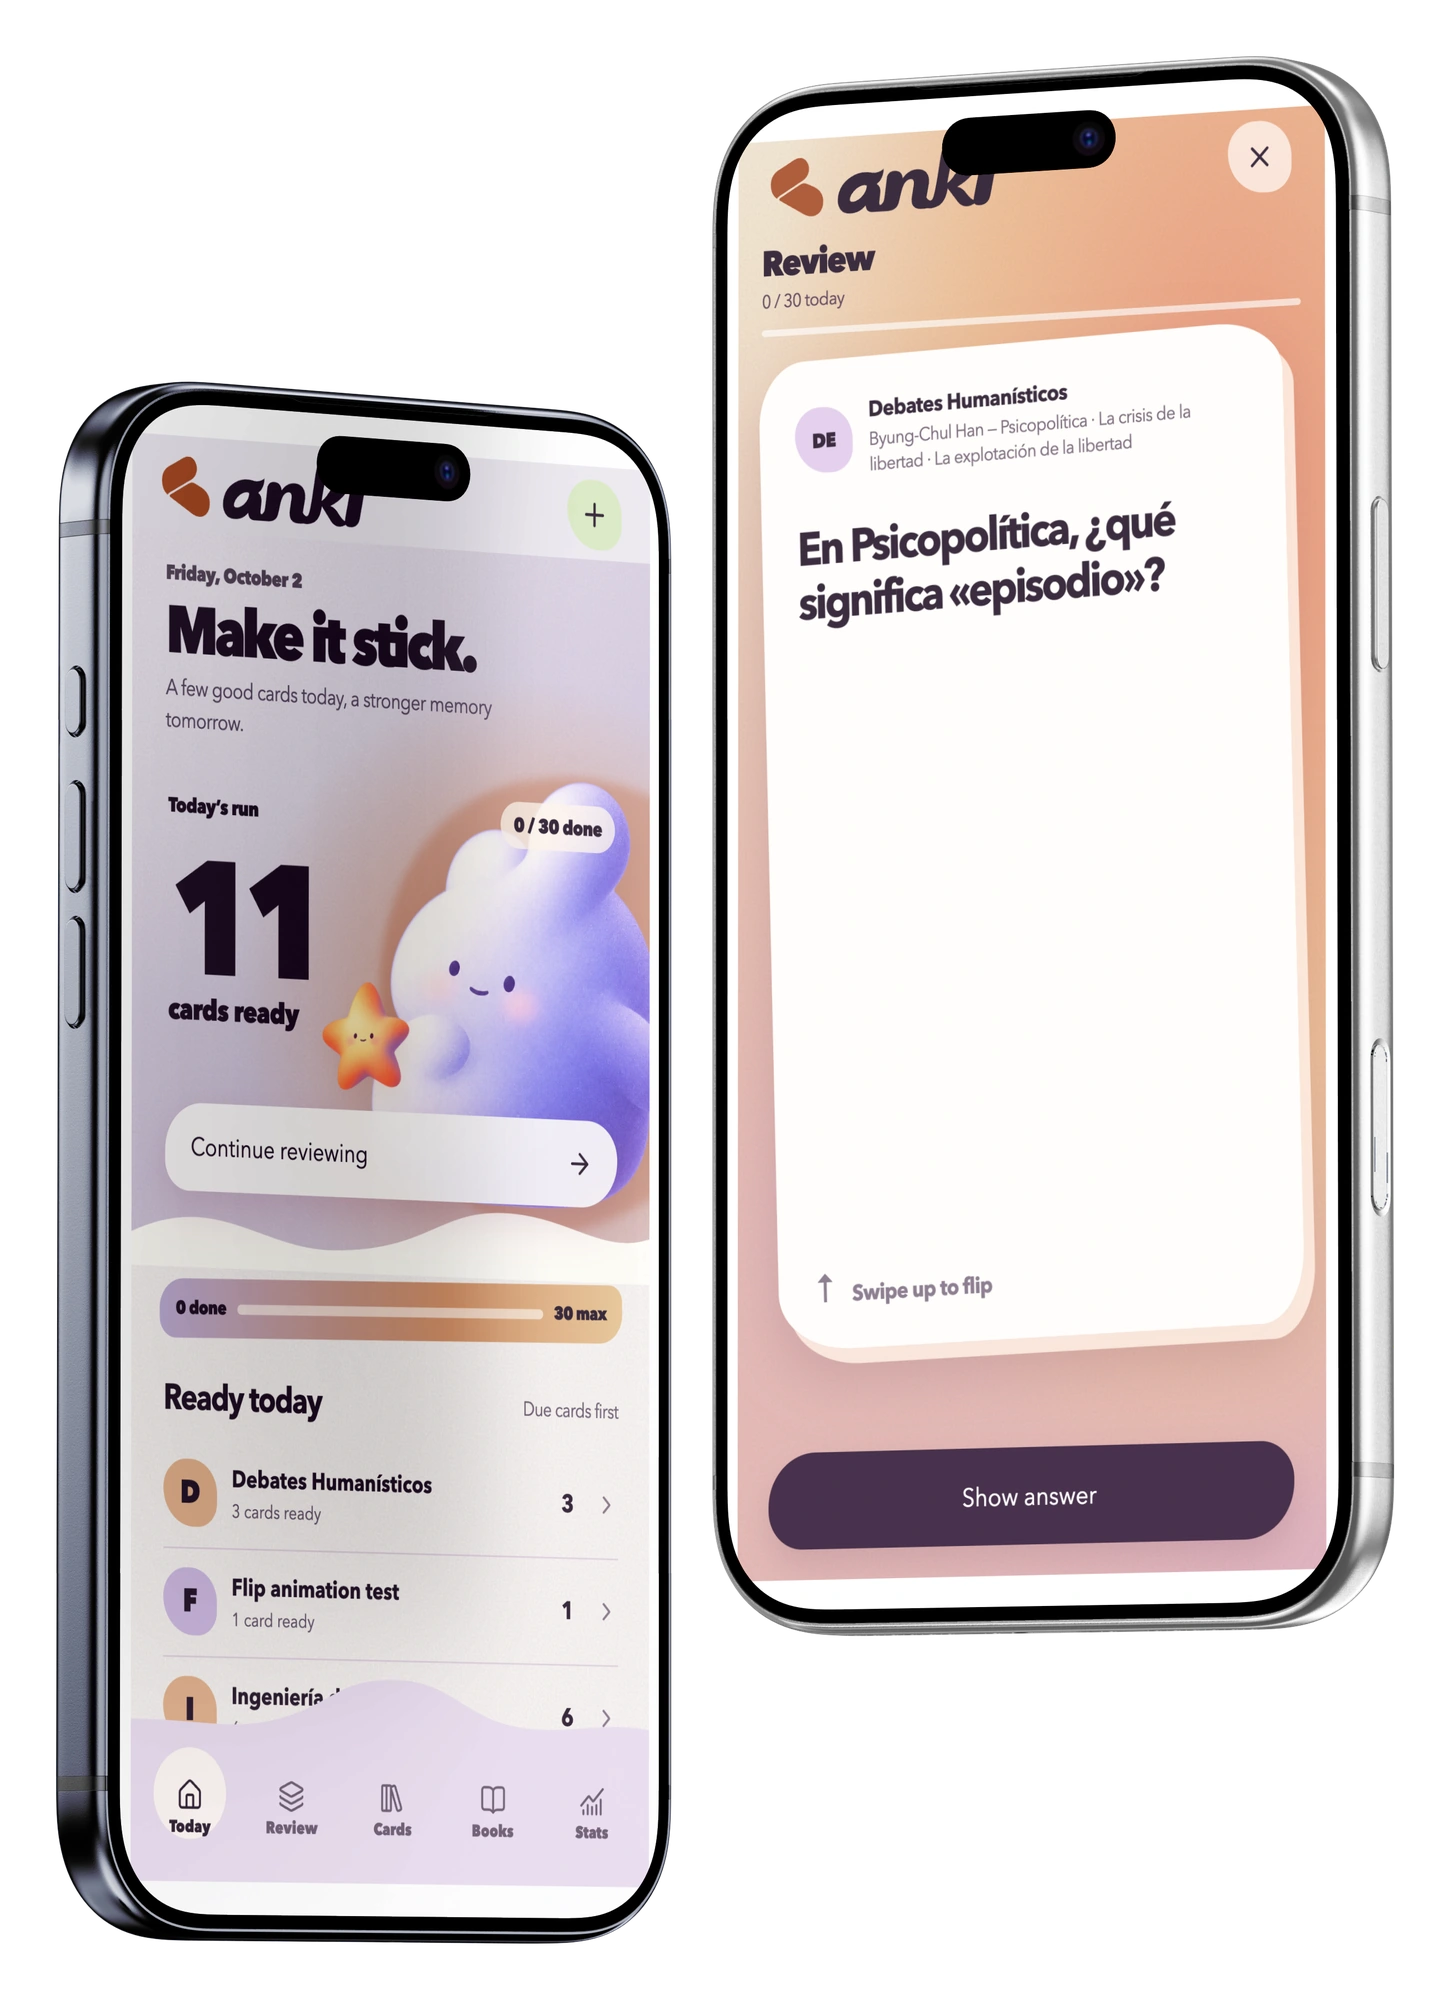
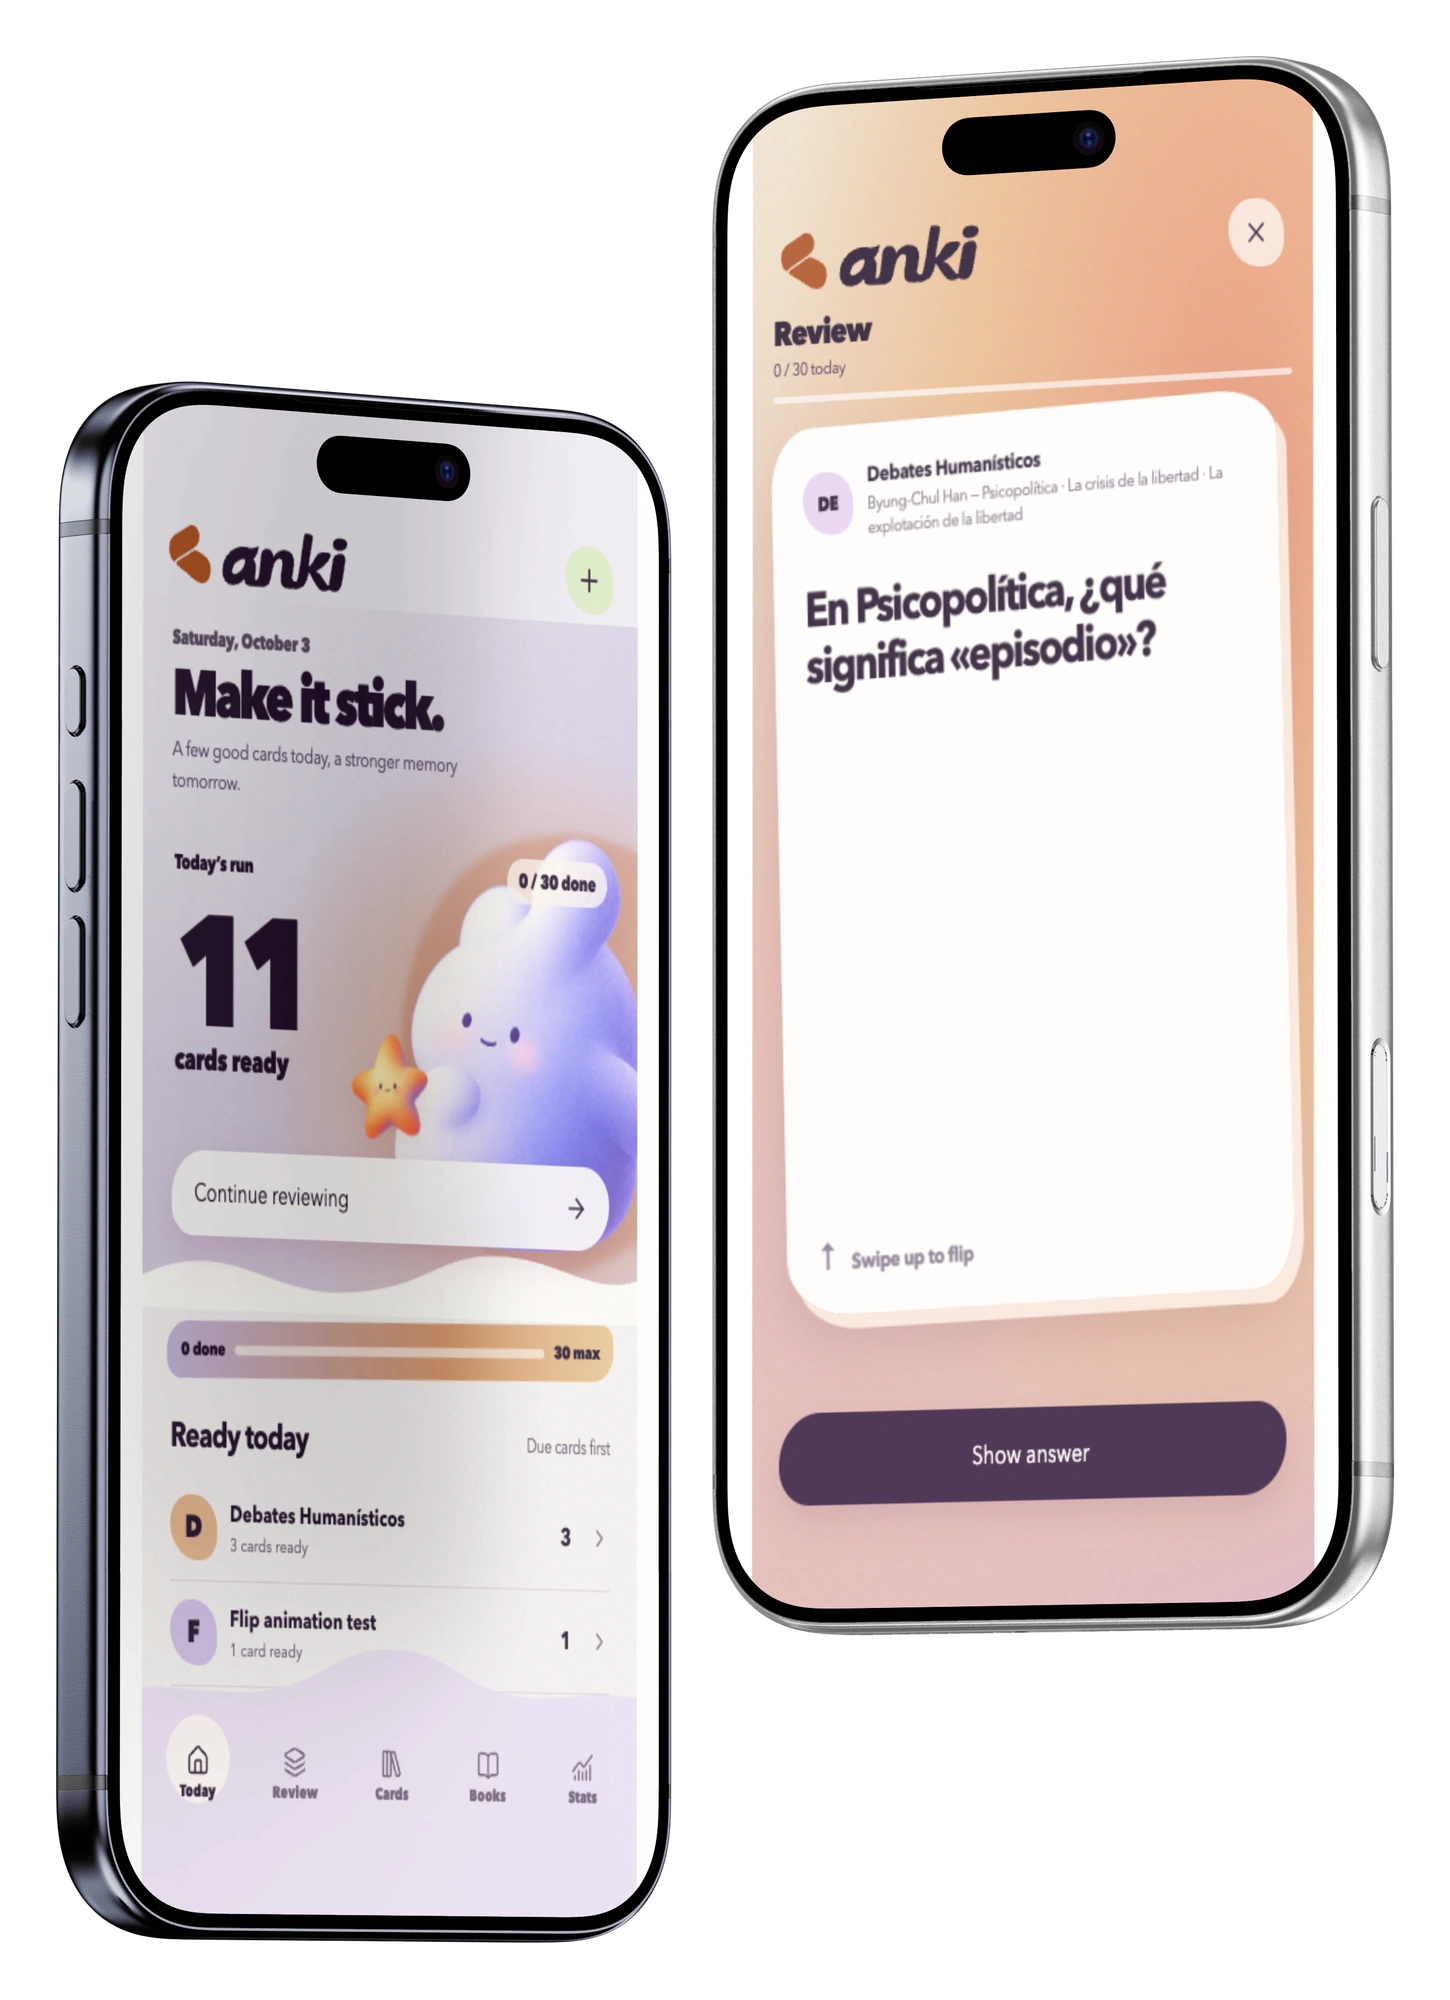
Fix Anki screen fill in native phone mockup

Changed region(s): [[0.4966, 0.031, 0.931, 0.837], [0.0621, 0.217, 0.4655, 0.992]]

diff --git a/app/mockups/anki-media.ts b/app/mockups/anki-media.ts
@@ -1,10 +1,10 @@
 export const ankiMobileScreens = [
-  { id: "anki-home", src: "/mockups/anki-app/home.png", width: 1179, height: 2556, alt: "Anki home with today's review queue and cloud illustration", label: "Anki home", kind: "screen" },
-  { id: "anki-review", src: "/mockups/anki-app/review.png", width: 1179, height: 2556, alt: "Anki review card tied to a book source", label: "Review card", kind: "screen" },
+  { id: "anki-home", src: "/mockups/anki-app/home.png?v=mobile-edge-1", width: 430, height: 976, alt: "Anki home with today's review queue and cloud illustration", label: "Anki home", kind: "screen" },
+  { id: "anki-review", src: "/mockups/anki-app/review.png?v=mobile-edge-1", width: 430, height: 976, alt: "Anki review card tied to a book source", label: "Review card", kind: "screen" },
 ] as const;
 
 export const ankiAppMockup = {
-  src: "/mockups/anki-app/paired-phones.webp",
+  src: "/mockups/anki-app/paired-phones.webp?v=mobile-edge-1",
   width: 1450,
   height: 2000,
   alt: "Anki home and review screens in two iPhones",
